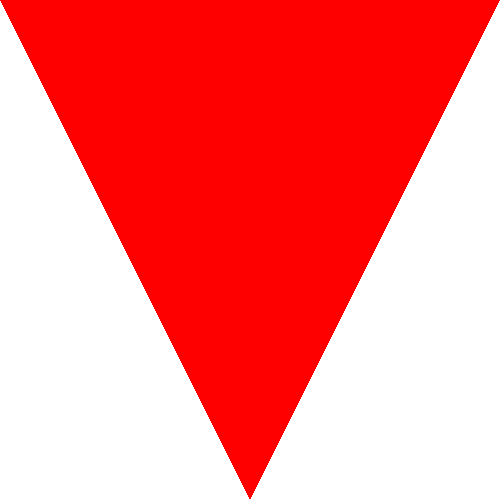
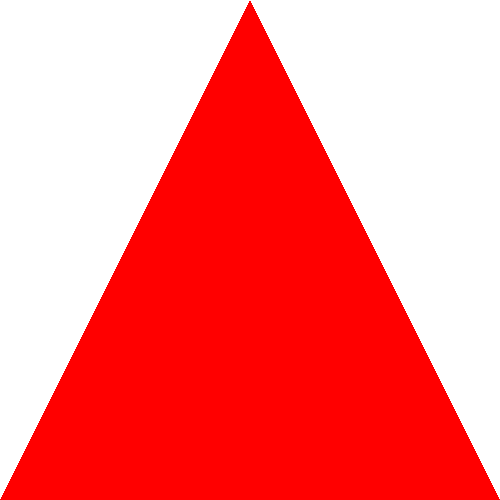
finished porting assignment 5

diff --git a/assignment_5/src/raster.rs b/assignment_5/src/raster.rs
@@ -1,5 +1,5 @@
 use crate::attributes::*;
-use glam::{vec3, Vec3, Mat3};
+use glam::{vec2, vec3, Vec3, Mat3};
 use image::{RgbaImage, Rgba};
 
 pub struct Program {
@@ -35,17 +35,19 @@ pub fn rasterize_triangle(program: &mut Program, uniform: UniformAttributes, v1:
     a = a.transpose();
     a.set_z_axis(Vec3::one());
     a = a.transpose();
+
     let ai = a.inverse();
 
-    for i in lx..ux + 1 {
-        for j in ly..uy + 1 {
+    for i in lx..=ux {
+        for j in ly..=uy {
             let pixel = vec3(i as f32 + 0.5, j as f32 + 0.5, 1.0);
             let b = ai * pixel;
             if b.min_element() >= 0.0 {
-                let va = VertexAttributes::interpolate(v1, v2, v3, b[0], b[1], b[2]);
+                let va = VertexAttributes::interpolate(v1, v2, v3, b.x(), b.y(), b.z());
                 if va.position[2] >= -1.0 && va.position[2] <= 1.0 {
                     let frag = (program.fragment_shader)(va, uniform);
-                    *frame_buffer.get_pixel_mut(i, j) = (program.blending_shader)(frag, *frame_buffer.get_pixel_mut(i, j));
+                    let h = frame_buffer.height() - 1;
+                    *frame_buffer.get_pixel_mut(i, h - j) = (program.blending_shader)(frag, *frame_buffer.get_pixel_mut(i, h - j));
                 }
             }
         }
@@ -57,5 +59,59 @@ pub fn rasterize_triangles(program: &mut Program, uniform: UniformAttributes, ve
     vertices.clone().into_iter().for_each(|vertex| v.push((program.vertex_shader)(vertex, uniform)));
     for i in 0..vertices.len() / 3 {
         rasterize_triangle(program, uniform, v[i * 3 + 0], v[i * 3 + 1], v[i * 3 + 2], frame_buffer);
+    }
+}
+
+pub fn rasterize_line(program: &mut Program, uniform: UniformAttributes, v1: VertexAttributes, v2: VertexAttributes, line_thickness: f32, frame_buffer: &mut RgbaImage) {
+    let mut p = vec![];
+    p.push(v1.position / v1.position.w());
+    p.push(v2.position / v2.position.w());
+
+    p.iter_mut().for_each(|point| {
+        point[0] = ((point[0] + 1.0) / 2.0) * frame_buffer.height() as f32;
+        point[1] = ((point[1] + 1.0) / 2.0) * frame_buffer.width() as f32;
+    });
+
+    let f32_cmp = |a: &f32, b: &f32| a.partial_cmp(b).unwrap();
+    let x: Vec<f32> = p.iter().map(|point| point[0]).collect();
+    let y: Vec<f32> = p.iter().map(|point| point[1]).collect();
+
+    let lx = (x.clone().into_iter().min_by(f32_cmp).unwrap() - line_thickness).max(0.0) as u32;
+    let ly = (y.clone().into_iter().min_by(f32_cmp).unwrap() - line_thickness).max(0.0) as u32;
+    let ux = (x.into_iter().max_by(f32_cmp).unwrap() + line_thickness).min(frame_buffer.height() as f32 - 1.0) as u32;
+    let uy = (y.into_iter().max_by(f32_cmp).unwrap() + line_thickness).min(frame_buffer.width() as f32 - 1.0) as u32;
+
+    let l1 = vec2(p[0][0], p[0][1]);
+    let l2 = vec2(p[1][0], p[1][1]);
+
+    let mut t = -1.0;
+    let ll = (l1 - l2).length_squared();
+
+    for i in lx..=ux {
+        for j in ly..=uy {
+            let pixel = vec2(i as f32 + 0.5, j as f32 + 0.5);
+            if ll == 0.0 {
+                t = 0.0;
+            } else {
+                t = ((pixel - l1).dot(l2 - l1) / ll).min(1.0).max(0.0);
+            }
+            
+            let pixel_p = l1 + t * (l2 - l1);
+
+            if (pixel - pixel_p).length_squared() < line_thickness * line_thickness {
+                let va = VertexAttributes::interpolate(v1, v2, v1, 1.0 - t, t, 0.0);
+                let frag = (program.fragment_shader)(va, uniform);
+                let h = frame_buffer.height() - 1;
+                *frame_buffer.get_pixel_mut(i, h - j) = (program.blending_shader)(frag, *frame_buffer.get_pixel_mut(i, h - j));
+            }
+        }
+    }
+}
+
+pub fn rasterize_lines(program: &mut Program, uniform: UniformAttributes, vertices: Vec<VertexAttributes>, line_thickness: f32, frame_buffer: &mut RgbaImage) {
+    let mut v: Vec<VertexAttributes> = vec![];
+    vertices.clone().into_iter().for_each(|vertex| v.push((program.vertex_shader)(vertex, uniform)));
+    for i in 0..vertices.len() / 2 {
+        rasterize_line(program, uniform, v[i * 2 + 0], v[i * 2 + 1], line_thickness, frame_buffer);
     }
 }
